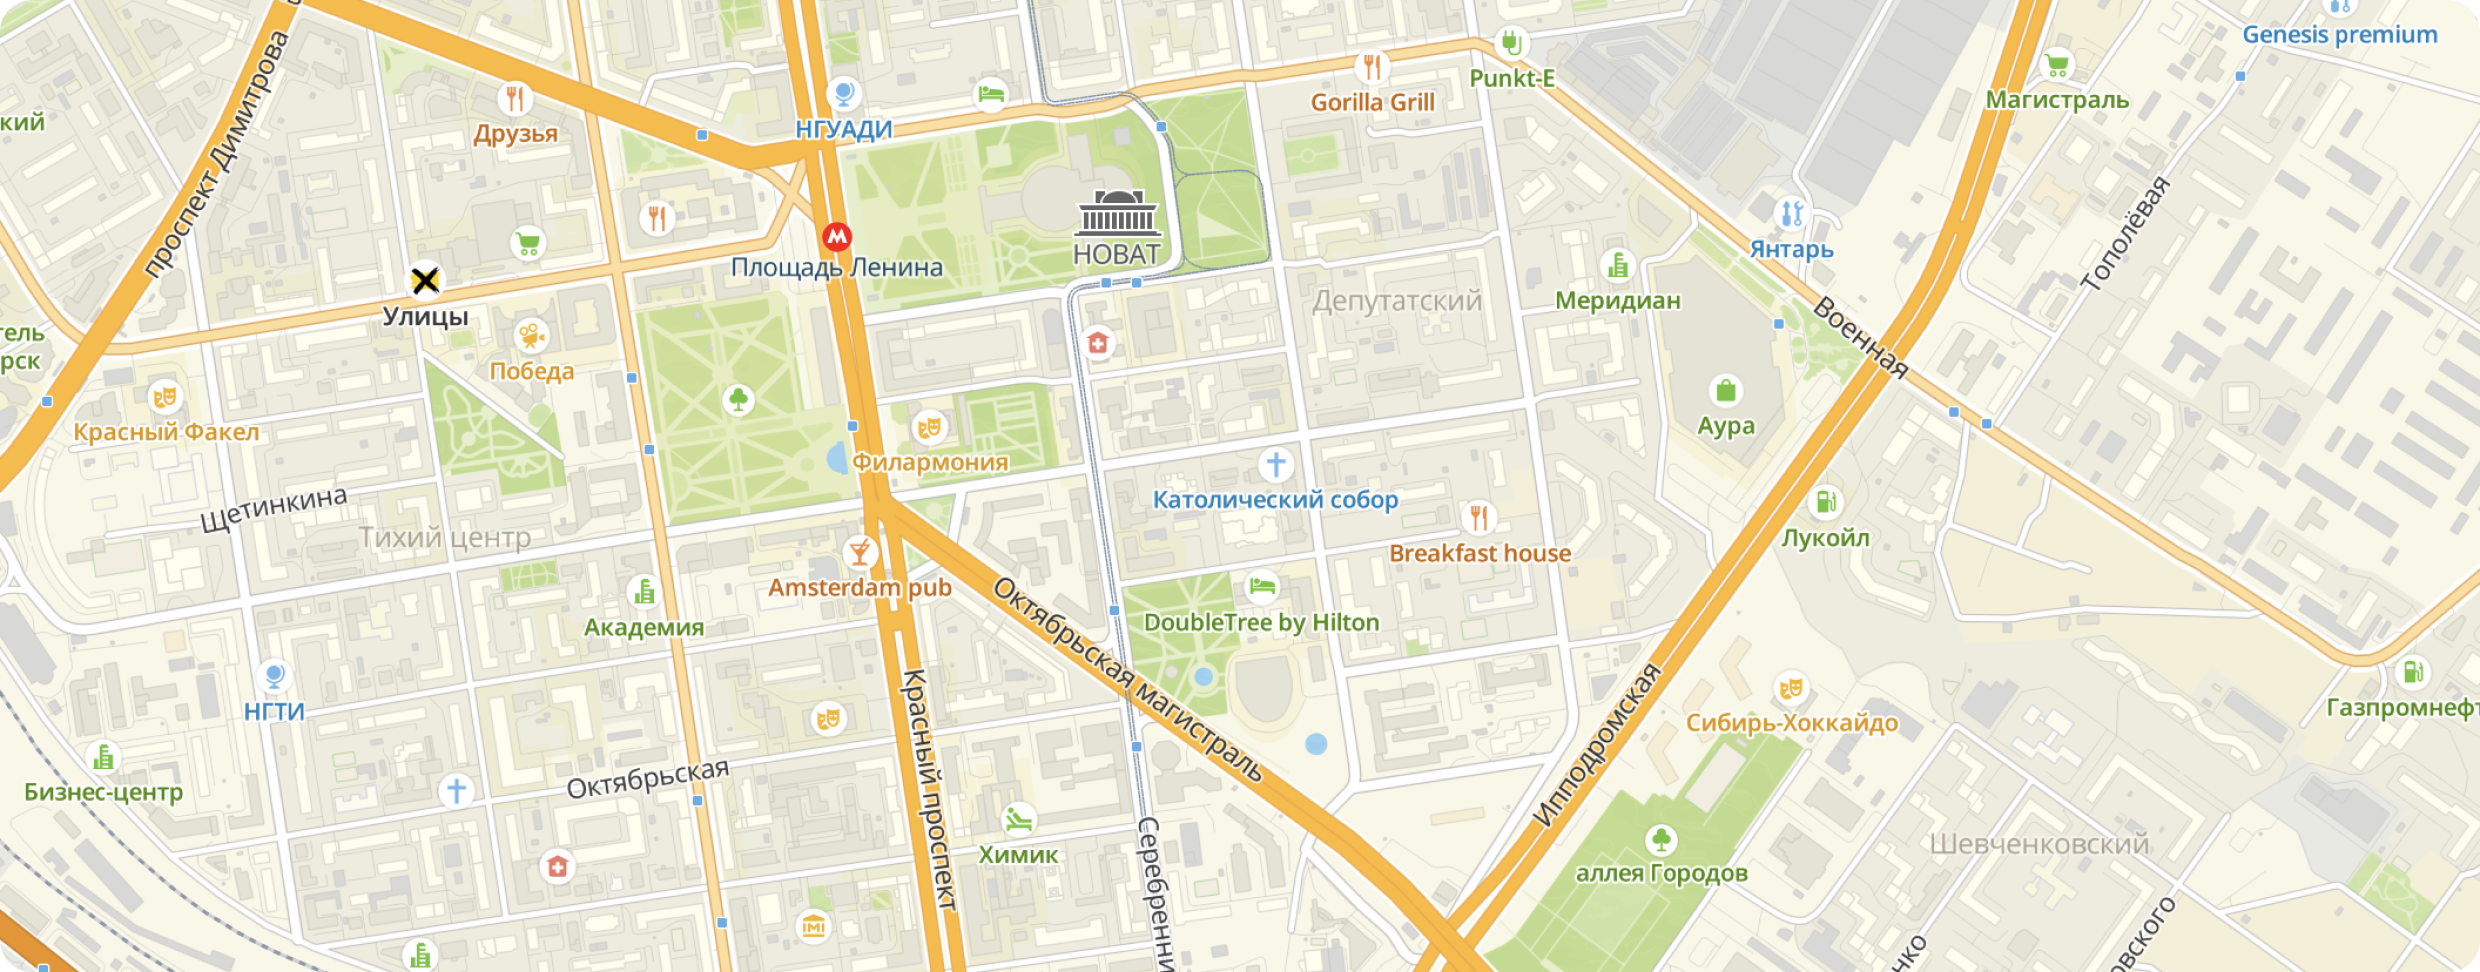
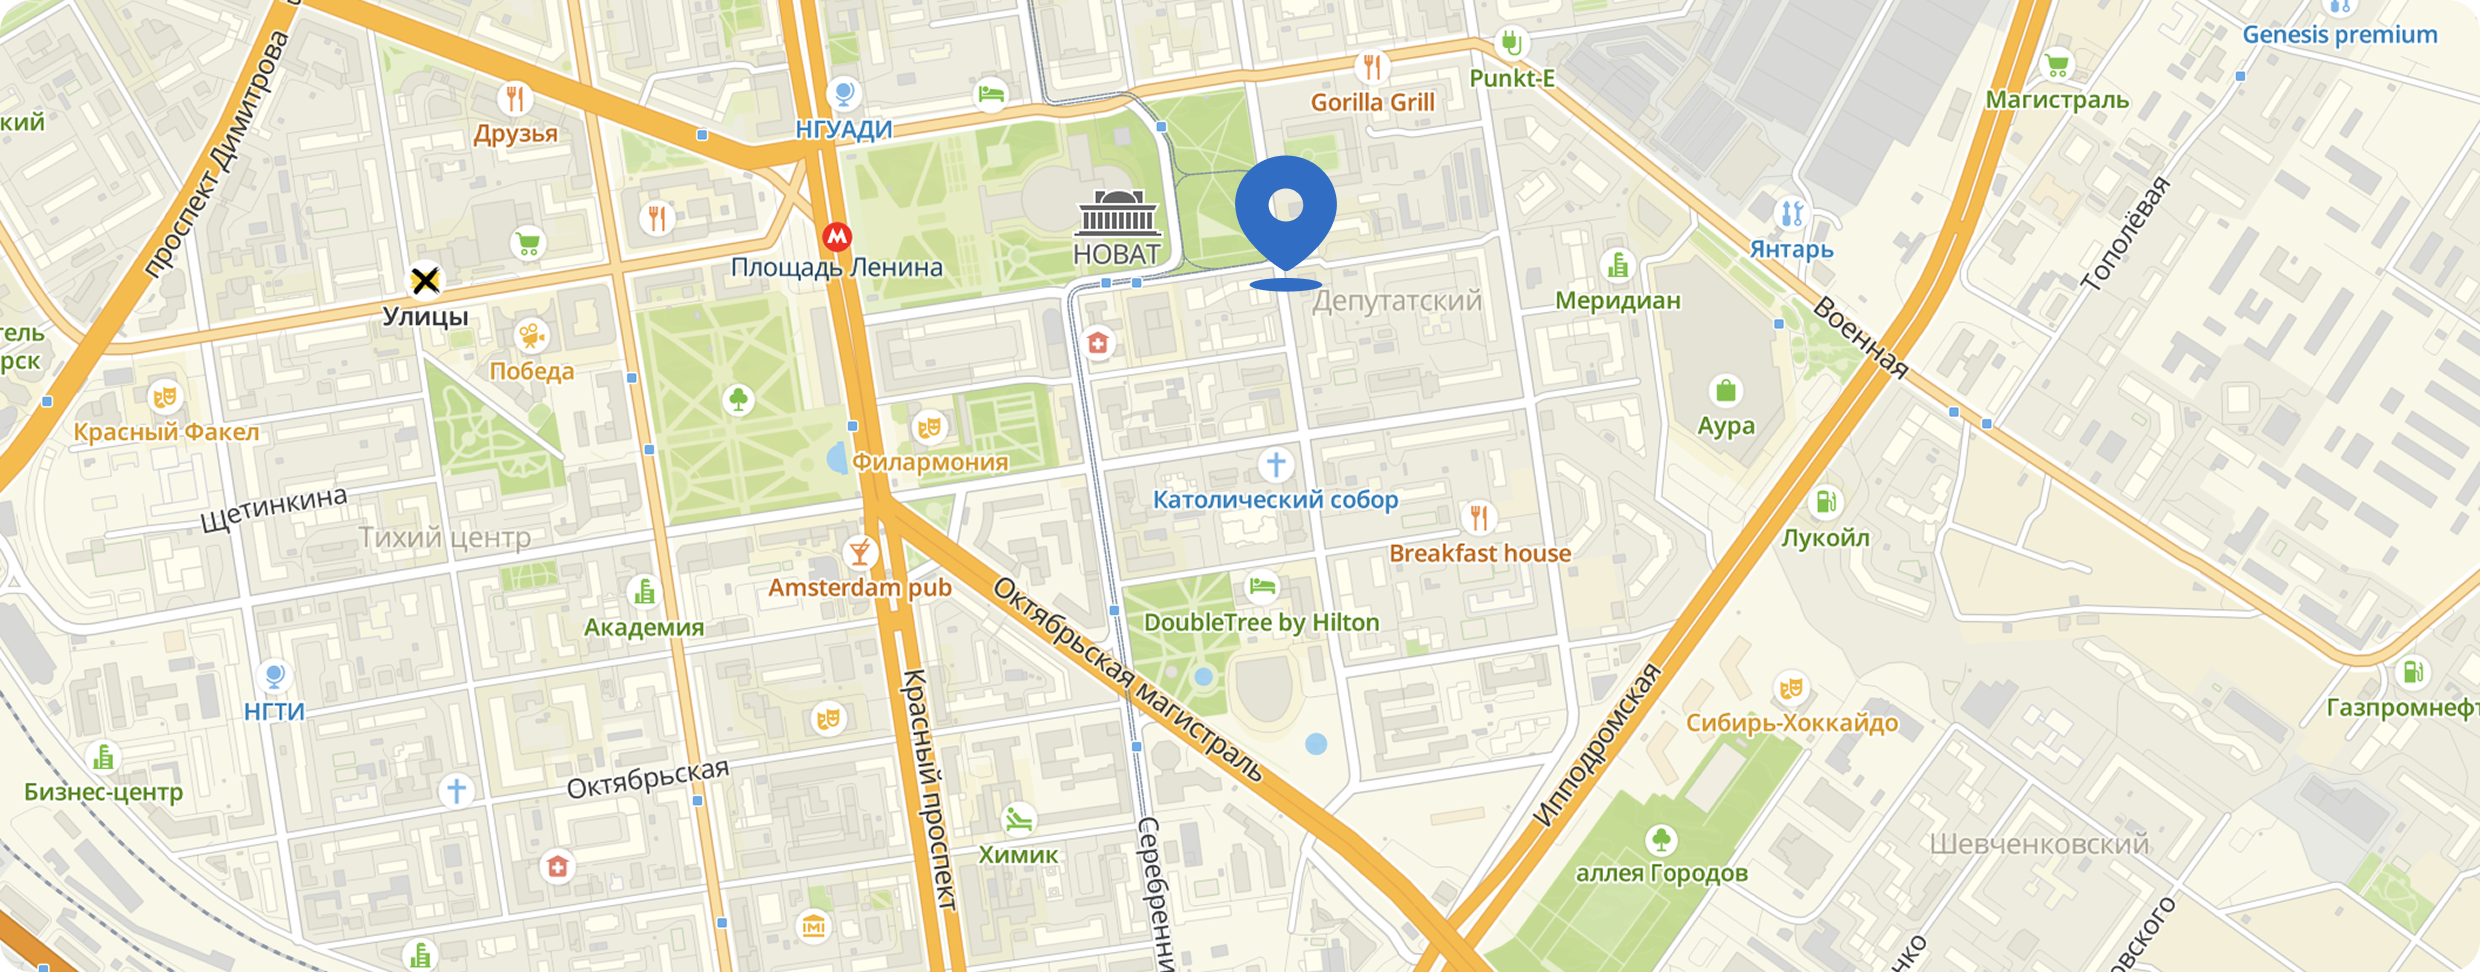
Добавляет блок Контакты

Changed region(s): [[0.4968, 0.1543, 0.5589, 0.3086]]

diff --git a/source/index.html b/source/index.html
@@ -996,8 +996,34 @@
       </div>
     </section>
     <section class="contacts" data-test="contacts">
-      <div class="container">
-        <h2>Контакты</h2>
+      <div class="contacts__container container">
+        <div class="contacts__text">
+          <h2 class="contacts__title title title--light">Контакты</h2>
+          <ul class="contacts__list list-reset contacts-list">
+            <li class="contacts-list__item">
+              <span class="contacts-list__item-title">Центральный офис</span>
+              <span class="contacts-list__item-text" href="#">г. Новосибирск, ул. Щетинкина 68, культурный центр</span>
+            </li>
+            <li class="contacts-list__item contacts-item">
+              <span class="contacts-list__item-title">Телефон</span>
+              <a class="contacts-list__item-link" href="tel:+796387687676">+7 963 876 876 76</a>
+            </li>
+            <li class="contacts-list__item contacts-item">
+              <span class="contacts-list__item-title">Email</span>
+              <a class="contacts-list__item-link" href="mailto:Info@stazh.ru">Info@stazh.ru</a>
+            </li>
+          </ul>
+        </div>
+        <div class="contacts__map">
+          <picture>
+            <source media="(min-width: 1440px)" srcset="img/contacts/contacts-map-desktop@1x.webp 1x, img/contacts/contacts-map-desktop@2x.webp 2x" type="image/webp" width="1240" height="486">
+            <source media="(min-width: 1440px)" srcset="img/contacts/contacts-map-desktop@1x.png 1x, img/contacts/contacts-map-desktop@2x.png 2x" type="image/png" width="1240" height="486">
+            <source media="(min-width: 768px)" srcset="img/contacts/contacts-map-tablet@1x.webp 1x, img/contacts/contacts-map-tablet@2x.webp 2x" type="image/webp" width="678" height="500">
+            <source media="(min-width: 768px)" srcset="img/contacts/contacts-map-tablet@1x.png 1x, img/contacts/contacts-map-tablet@2x.png 2x" type="image/png" width="678" height="500">
+            <source srcset="img/contacts/contacts-map-mobile@1x.webp 1x, img/contacts/contacts-map-mobile@2x.webp 2x" type="image/webp" width="290" height="240">
+            <img src="img/contacts/contacts-map-mobile@1x.png" srcset="img/contacts/contacts-map-mobile@2x.png 2x" alt="Местоположение на карте: г. Новосибирск, ул. Щетинкина 68, культурный центр." width="290" height="240">
+          </picture>
+        </div>
       </div>
     </section>
     <section class="form" data-test="form">

diff --git a/source/sass/blocks/contacts-list.scss b/source/sass/blocks/contacts-list.scss
@@ -1,0 +1,60 @@
+.contacts-list {
+  display: flex;
+  flex-direction: column;
+  gap: 20px;
+
+  @media (min-width: $tablet-width) {
+    flex-direction: row;
+    justify-content: space-between;
+  }
+
+  @media (min-width: $desktop-width) {
+    min-width: 604px;
+  }
+}
+
+.contacts-list__item {
+  display: flex;
+  flex-direction: column;
+  gap: 15px;
+
+  @media (min-width: $tablet-width) {
+    gap: 24px;
+  }
+
+  @media (min-width: $desktop-width) {
+    max-width: 263px;
+  }
+}
+
+.contacts-list__item-title {
+  font-size: 12px;
+  line-height: 12px;
+  letter-spacing: 0.12px;
+  color: $bg-light;
+  opacity: 0.8;
+  text-transform: uppercase;
+}
+
+.contacts-list__item-link {
+  color: $text-light;
+  text-decoration: none;
+
+  &:hover {
+    opacity: 0.7;
+  }
+
+  &:focus {
+    opacity: 1;
+    color: $text-dark;
+    text-decoration: underline;
+    text-underline-offset: 5px;
+  }
+
+  &:active {
+    opacity: 1;
+    color: $text-light;
+    text-decoration: underline;
+    text-underline-offset: 5px;
+  }
+}

diff --git a/source/sass/blocks/contacts.scss b/source/sass/blocks/contacts.scss
@@ -1,0 +1,42 @@
+.contacts {
+  background-color: $bg-dark;
+  color: $text-light;
+}
+
+.contacts__container {
+  padding: 70px 15px;
+  display: flex;
+  flex-direction: column;
+
+  @media (min-width: $tablet-width) {
+    padding: 100px 45px;
+  }
+
+  @media (min-width: $desktop-width) {
+    padding: 120px 100px;
+  }
+}
+
+.contacts__text {
+  display: flex;
+  flex-direction: column;
+  gap: 30px;
+  padding-bottom: 30px;
+  border-bottom: 2px solid rgba(255, 255, 255, 0.2);
+  margin-bottom: 30px;
+
+  @media (min-width: $desktop-width) {
+    flex-direction: row;
+    justify-content: space-between;
+    padding-bottom: 40px;
+    margin-bottom: 40px;
+  }
+}
+
+.contacts__title {
+  margin: 5px 0;
+
+  @media (min-width: $tablet-width) {
+    margin: 0;
+  }
+}

diff --git a/source/sass/style.scss b/source/sass/style.scss
@@ -51,3 +51,5 @@
 @import "blocks/review";
 @import "blocks/reviews-swiper";
 @import "blocks/reviews-swiper-slide";
+@import "blocks/contacts";
+@import "blocks/contacts-list";

diff --git a/source/sass/blocks/reviews.scss b/source/sass/blocks/reviews.scss
@@ -26,7 +26,6 @@
   position: relative;
   display: flex;
   flex-direction: column;
-  gap: 30px;
 
   @media (min-width: $tablet-width) {
     gap: 40px;
